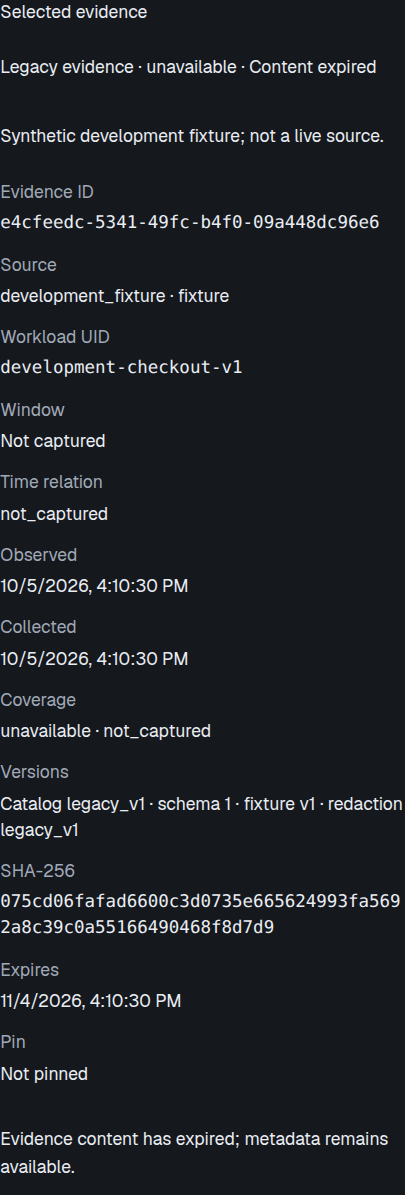
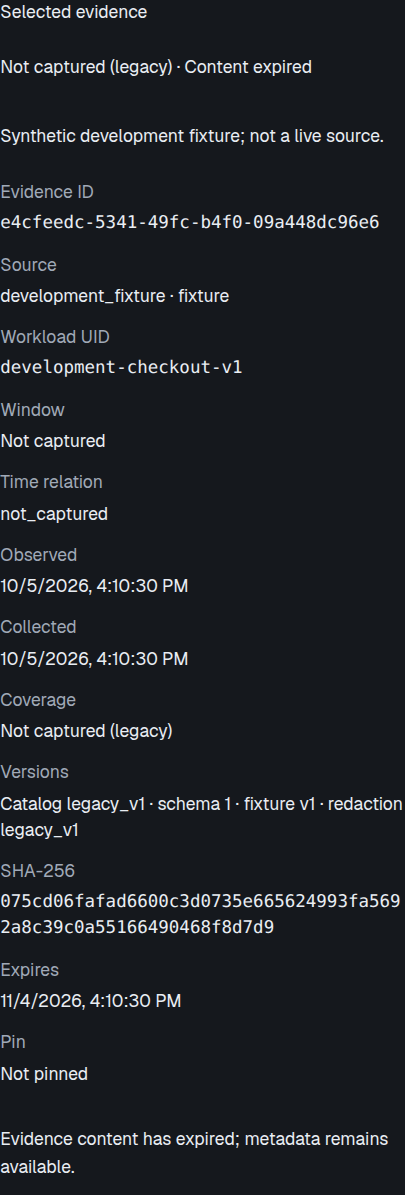
fix(evidence): preserve truthful coverage and version handoffs
Track actual omissions rather than sorting or redaction as truncation. Distinguish uncaptured legacy coverage from current content availability. Produce HandoffSnapshot/v2 while reading frozen v1/v2 envelopes without relabeling or rerendering their saved bytes.

Refs: #45

Changed region(s): [[0.0, 0.031, 0.9481, 0.0619], [0.0, 0.5883, 0.5333, 0.6192]]

diff --git a/apps/web/src/features/investigations/InvestigationWorkspace.test.tsx b/apps/web/src/features/investigations/InvestigationWorkspace.test.tsx
@@ -102,7 +102,7 @@ function mount(
     if (path.endsWith("/runs")) return Response.json({ items: runs, next_offset: null });
     if (path.includes("/runs/")) return Response.json(runs.find((r) => path.endsWith(r.id)));
     if (path.endsWith("/activity")) return Response.json({ items: [], total: 0, next_cursor: null });
-    if (path.endsWith("/handoff/preview")) return Response.json({ incident_id: incidentId, resolution_id: null, schema_version: "HandoffSnapshot/v1", snapshot: {}, markdown: "Current handoff" });
+    if (path.endsWith("/handoff/preview")) return Response.json({ incident_id: incidentId, resolution_id: null, schema_version: "HandoffSnapshot/v2", snapshot: {}, markdown: "Current handoff" });
     if (path.endsWith("/plans") || path.endsWith("/executions")) return Response.json([]);
     return Response.json({
       id: incidentId,
@@ -239,7 +239,7 @@ describe("persisted handoff navigation", () => {
   const resolution = "00000000-0000-4000-8000-000000000099";
   const human = "<img src=x onerror=alert(1)> Ghi chú & evidence";
   const previewResponse = (selected: string | null) => Response.json({
-    incident_id: incidentId, resolution_id: selected, schema_version: "HandoffSnapshot/v1",
+    incident_id: incidentId, resolution_id: selected, schema_version: selected ? "HandoffSnapshot/v1" : "HandoffSnapshot/v2",
     snapshot: {}, markdown: selected ? `Saved: ${human}` : "Current handoff",
   });
 
@@ -344,7 +344,7 @@ describe("persisted handoff navigation", () => {
       }
       if (url.pathname === `/api/incidents/${incidentId}`) return Response.json(detail());
       if (url.pathname.endsWith("/handoff/preview")) return Response.json({
-        incident_id: incidentId, resolution_id: null, schema_version: "HandoffSnapshot/v1",
+        incident_id: incidentId, resolution_id: null, schema_version: "HandoffSnapshot/v2",
         snapshot: {}, markdown: resolved ? "State: resolved; reason: service recovered" : "State: open",
       });
     });

diff --git a/apps/web/src/app/SessionBoundary.test.tsx b/apps/web/src/app/SessionBoundary.test.tsx
@@ -203,7 +203,7 @@ it("returns to the selected saved incident/run with fresh reads after reauthenti
   const fixture = (r: RequestInfo | URL) => {
     const url = path(r);
     if (url.endsWith("/activity")) return { items: [], total: 0, next_cursor: null };
-    if (url.endsWith("/handoff/preview")) return { incident_id: id, resolution_id: null, schema_version: "HandoffSnapshot/v1", snapshot: {}, markdown: "Current handoff" };
+    if (url.endsWith("/handoff/preview")) return { incident_id: id, resolution_id: null, schema_version: "HandoffSnapshot/v2", snapshot: {}, markdown: "Current handoff" };
     if (url.endsWith("/plans") || url.endsWith("/executions")) return [];
     if (url === "/api/session" || url === "/api/login") return a;
     if (url.endsWith(`/runs/${run}`))
@@ -290,7 +290,7 @@ it("discards an expired approval intent and requires a fresh plan read and expli
       });
     if (url.endsWith("/plans")) return Response.json([plan]);
     if (url.endsWith("/activity")) return Response.json({ items: [], total: 0, next_cursor: null });
-    if (url.endsWith("/handoff/preview")) return Response.json({ incident_id: id, resolution_id: null, schema_version: "HandoffSnapshot/v1", snapshot: {}, markdown: "Current handoff" });
+    if (url.endsWith("/handoff/preview")) return Response.json({ incident_id: id, resolution_id: null, schema_version: "HandoffSnapshot/v2", snapshot: {}, markdown: "Current handoff" });
     if (url.endsWith("/executions")) return Response.json([]);
     if (url.endsWith("/runs"))
       return Response.json({ items: [], next_offset: null });

diff --git a/apps/web/src/features/investigations/EvidenceCatalog.tsx b/apps/web/src/features/investigations/EvidenceCatalog.tsx
@@ -8,6 +8,12 @@ import { Failure, Loading } from "@/app/Feedback";
 type Run = components["schemas"]["RunView"];
 type Evidence = components["schemas"]["EvidenceView"];
 
+function coverageLabel(evidence: Evidence) {
+  return evidence.schema_version === 1
+    ? "Not captured (legacy)"
+    : evidence.coverage.status;
+}
+
 function EvidenceDetail({
   incidentId,
   runId,
@@ -63,8 +69,7 @@ function EvidenceDetail({
   return (
     <>
       <p>
-        {e.schema_version === 1 ? "Legacy evidence · " : ""}
-        {e.coverage.status} · Content{" "}
+        {coverageLabel(e)} · Content{" "}
         {contentError?.status === 410
           ? "expired"
           : contentError?.status === 409
@@ -101,8 +106,8 @@ function EvidenceDetail({
         <dd>{new Date(e.collected_at).toLocaleString()}</dd>
         <dt>Coverage</dt>
         <dd>
-          {e.coverage.status}
-          {e.coverage.reason_codes.length
+          {coverageLabel(e)}
+          {e.schema_version !== 1 && e.coverage.reason_codes.length
             ? ` · ${e.coverage.reason_codes.join(", ")}`
             : ""}
         </dd>
@@ -230,8 +235,7 @@ export function EvidenceCatalog({
               >
                 {e.source_key}
               </a>{" "}
-              · {e.coverage.status} · content {e.content_status}
-              {e.schema_version === 1 && " · legacy"}
+              · {coverageLabel(e)} · content {e.content_status}
             </li>
           ))}
         </ul>

diff --git a/apps/web/src/features/investigations/EvidenceCatalog.test.tsx b/apps/web/src/features/investigations/EvidenceCatalog.test.tsx
@@ -116,7 +116,14 @@ it("identifies historical evidence with uncaptured source coverage as legacy", a
     return Response.json(evidence);
   });
   mount(evidenceId);
-  expect(await screen.findByText(/Legacy evidence/)).toBeTruthy();
+  await screen.findByText("Stored content");
+  expect(screen.getByText("Coverage").nextElementSibling?.textContent).toBe(
+    "Not captured (legacy)",
+  );
+  expect(
+    screen.getByRole("link", { name: "development_fixture" }).parentElement
+      ?.textContent,
+  ).not.toContain("unavailable");
   expect(document.activeElement).toBe(
     screen.getByRole("heading", { name: "Selected evidence" }),
   );

diff --git a/services/backend/src/cloudops/features/investigations/storage.py b/services/backend/src/cloudops/features/investigations/storage.py
@@ -299,6 +299,8 @@ def _clean(value, key="", depth=0, budget=None, fields=None, pod=""):
             fields = QUERY_IDENTITY_FIELDS
         elif fields is QUERY_FIELDS and key == "window":
             fields = QUERY_WINDOW_FIELDS
+        if any(field not in fields for field in value):
+            budget["truncated"] = True
         for field, item in value.items():
             if field not in fields:
                 continue
@@ -355,6 +357,7 @@ def _clean(value, key="", depth=0, budget=None, fields=None, pod=""):
         if pod:
             seen = budget["pods_seen"]
             if pod not in seen and len(seen) >= 10:
+                budget["truncated"] = True
                 return {}
             seen.add(pod)
         container = value.get("container", value.get("name") if key == "containers" else None)
@@ -364,6 +367,7 @@ def _clean(value, key="", depth=0, budget=None, fields=None, pod=""):
             identity = (pod, container)
             seen = budget["containers_seen"]
             if identity not in seen and len(seen) >= 20:
+                budget["truncated"] = True
                 return {}
             seen.add(identity)
         return {
@@ -382,6 +386,8 @@ def _clean(value, key="", depth=0, budget=None, fields=None, pod=""):
             values = valid
             count = min(len(values), budget["samples"])
             budget["samples"] -= count
+            if count < len(values):
+                budget["truncated"] = True
             # A sample is a single timestamp/value pair, never an arbitrary nested object.
             return [_clean(v, "", depth + 1, budget, fields, pod) for v in values[:count]]
         if key == "series" and not values:
@@ -389,13 +395,20 @@ def _clean(value, key="", depth=0, budget=None, fields=None, pod=""):
         if key == "series":
             count = min(len(values), budget["series"])
             budget["series"] -= count
+            if count < len(values):
+                budget["truncated"] = True
             values = values[:count]
         elif key in {"pods", "containers"}:
             # Each record registers its identity while traversing the dictionary.
             values = [v for v in values if isinstance(v, dict)]
         else:
-            values = values[: LIMITS.get(key, 1000)]
+            limit = LIMITS.get(key, 1000)
+            if len(values) > limit:
+                budget["truncated"] = True
+            values = values[:limit]
         items = [_clean(v, key, depth + 1, budget, fields, pod) for v in values]
+        if key in {"pods", "containers", "logs"} and any(item == {} for item in items):
+            budget["truncated"] = True
         return (
             [item for item in items if item != {}]
             if key in {"pods", "containers", "logs"}
@@ -404,7 +417,10 @@ def _clean(value, key="", depth=0, budget=None, fields=None, pod=""):
     if isinstance(value, str):
         if fields is CONFIG_FIELDS and not re.fullmatch(r"[A-Za-z0-9_.:/-]{1,253}", value):
             raise ValueError("ConfigMap metadata contains an invalid identifier.")
-        return _redact(value)[:32768]
+        redacted = _redact(value)
+        if len(redacted) > 32768:
+            budget["truncated"] = True
+        return redacted[:32768]
     if value is None or isinstance(value, (bool, int)):
         return value
     if isinstance(value, float) and math.isfinite(value):
@@ -446,11 +462,13 @@ def _count_samples(value):
 
 
 def _bounded(payload, kind, byte_limit, budget, source_key):
-    original = payload
+    budget["truncated"] = False
     if kind == "fixture":
         payload = FixturePayload.model_validate(payload).model_dump()
         fields = ROOT_FIELDS["fixture"]
     else:
+        if any(key not in ROOT_FIELDS[kind] for key in payload):
+            budget["truncated"] = True
         payload = {key: value for key, value in payload.items() if key in ROOT_FIELDS[kind]}
         fields = (
             CONFIG_FIELDS
@@ -463,9 +481,12 @@ def _bounded(payload, kind, byte_limit, budget, source_key):
             }[kind]
         )
     cleaned = _clean(payload, budget=budget, fields=fields)
+    truncated = budget["truncated"]
     if kind == "logs":
-        cleaned = _bound_log_segments(cleaned, {})
-    truncated = cleaned != original
+        bounded_logs = _bound_log_segments(cleaned, {})
+        # This phase only trims text/line budgets, unlike sorting or redaction above.
+        truncated = truncated or bounded_logs != cleaned
+        cleaned = bounded_logs
     # Remove list entries deterministically until the fixed allocation is satisfied.
     while len(_canonical(cleaned)) > byte_limit:
         lists = []

diff --git a/services/backend/tests/test_incident_handoff.py b/services/backend/tests/test_incident_handoff.py
@@ -131,11 +131,15 @@ def test_saved_and_legacy_bytes_survive_reopen_later_records_and_renderer_change
     )
 
 
-def test_current_handoff_discloses_retirement_without_changing_saved_v2(client):
+@pytest.mark.parametrize("schema_version", ["HandoffSnapshot/v1", "HandoffSnapshot/v2"])
+def test_current_handoff_discloses_retirement_without_changing_saved_snapshot(
+    client, schema_version
+):
     headers = sign_in(client)
     incident_id = create(client, headers, incident_body(client)).json()["incident_id"]
     url = f"/api/incidents/{incident_id}/handoff"
     before = client.get(url + "/preview").json()
+    assert before["schema_version"] == "HandoffSnapshot/v2"
     assert before["snapshot"]["workload"]["active"] is True
     assert "Workload status: Active" in before["markdown"]
     old_markdown = "# Incident handoff\n\nPrior v2 saved bytes\n"
@@ -149,7 +153,7 @@ def test_current_handoff_discloses_retirement_without_changing_saved_v2(client):
             text="Prior resolution",
             actor_id=incident.created_by,
             snapshot={
-                "schema_version": handoff.SCHEMA_VERSION,
+                "schema_version": schema_version,
                 "snapshot": before["snapshot"],
                 "markdown": old_markdown,
             },
@@ -180,7 +184,10 @@ def test_current_handoff_discloses_retirement_without_changing_saved_v2(client):
     assert client.get(url).content == current["markdown"].encode()
     params = {"resolution_id": str(resolution_id)}
     assert client.get(url, params=params).content == old_markdown.encode()
-    assert client.get(url + "/preview", params=params).json()["markdown"] == old_markdown
+    saved_preview = client.get(url + "/preview", params=params).json()
+    assert saved_preview["schema_version"] == schema_version
+    assert saved_preview["markdown"] == old_markdown
+    assert saved_preview["snapshot"] == before["snapshot"]
     with sessions()() as db:
         assert db.get(Incident, UUID(incident_id)).workload_id == old_id
         assert db.get(Workload, replacement_id).active is True
@@ -538,6 +545,8 @@ def test_full_history_evidence_references_and_cross_incident_lock(client):
     assert plans[lock_plan_id]["incident_id"] == other_id
     assert data["target_locks"]["items"][0]["plan_id"] == lock_plan_id
     markdown = client.get(url).json()["markdown"]
+    assert markdown.count("Coverage: Not captured (legacy)") == 30
+    assert "Coverage: available" not in markdown
     assert lock_id in markdown and lock_plan_id in markdown and other_id in markdown
     assert "Historical unknown" in markdown
     assert data["actions"]["execution_count"] == 31

diff --git a/services/backend/tests/test_evidence_redaction.py b/services/backend/tests/test_evidence_redaction.py
@@ -45,6 +45,53 @@ def test_storage_redacts_before_hash_and_caps_state(client):
         assert row.coverage["status"] == "partial"
 
 
+@pytest.mark.parametrize(
+    ("source_key", "payload"),
+    [
+        ("kubernetes.state", {"pods": [{"uid": "b"}, {"uid": "a"}]}),
+        (
+            "kubernetes.events",
+            {
+                "events": [
+                    {"uid": "z", "timestamp": "2026-11-01T00:00:00Z", "message": "First"},
+                    {"uid": "a", "timestamp": "2026-11-01T00:01:00Z", "message": "Second"},
+                ]
+            },
+        ),
+        (
+            "kubernetes.logs.current",
+            {
+                "logs": [
+                    {
+                        "pod_uid": "a",
+                        "container": "app",
+                        "text": "Authorization: Bearer synthetic-private-value\nNormal output",
+                    }
+                ]
+            },
+        ),
+        (
+            "prometheus.request_rate",
+            {
+                "series": [
+                    {"name": "b", "samples": [[0, 1]]},
+                    {"name": "a", "samples": [[0, 2]]},
+                ]
+            },
+        ),
+    ],
+)
+def test_ordering_and_redaction_preserve_complete_source_coverage(client, source_key, payload):
+    _, run_id, uid = setup_run(client)
+    results = batch(datetime.now(timezone.utc))
+    _set_result(results, source_key, payload)
+    with sessions()() as db:
+        rows = store_batch(db, run_id, uid, results)
+        row = next(row for row in rows if row.source_key == source_key)
+        assert row.coverage == {"status": "available", "reason_codes": []}
+        assert "synthetic-private-value" not in json.dumps(row.payload)
+
+
 def _set_result(results, key, payload):
     index = next(i for i, result in enumerate(results) if result.source_key == key)
     results[index] = results[index].model_copy(

diff --git a/services/backend/src/cloudops/features/incidents/handoff.py b/services/backend/src/cloudops/features/incidents/handoff.py
@@ -26,7 +26,7 @@ from cloudops.features.workloads.models import Workload
 from cloudops.shared.errors import DomainError
 from cloudops.shared.jobs import Job
 
-SCHEMA_VERSION = "HandoffSnapshot/v1"
+SCHEMA_VERSION = "HandoffSnapshot/v2"
 LEGACY_VERSION = "legacy"
 
 
@@ -398,6 +398,11 @@ def _render_v3(snapshot):
         sections.append("No Evidence references recorded.\n\n")
     for evidence in snapshot["evidence"]["items"]:
         window = evidence["requested_window"]
+        coverage = (
+            "Not captured (legacy)"
+            if evidence["schema_version"] == 1
+            else evidence["coverage"]["status"]
+        )
         sections.extend(
             [
                 f"- Evidence {_inline(evidence['id'])}; Run {_inline(evidence['run_id'])}; "
@@ -405,7 +410,7 @@ def _render_v3(snapshot):
                 f"catalog {_inline(evidence['catalog_version'])}; record v{_inline(evidence['schema_version'])}; "
                 f"payload {_inline(evidence['payload_kind'])} v{_inline(evidence['payload_version'])}; "
                 f"workload UID {_inline(evidence['workload_uid'])}\n",
-                f"  Coverage: {_inline(evidence['coverage']['status'])}; "
+                f"  Coverage: {_inline(coverage)}; "
                 f"reasons: {_inline(', '.join(evidence['coverage']['reason_codes']) or 'None')}; "
                 f"content: {_inline(evidence['content_status'])}; pinned: {_inline(str(evidence['pinned']))}\n",
                 f"  Observed: {_inline(evidence['observed_at'])}; collected: {_inline(evidence['collected_at'])}; "

diff --git a/services/backend/src/cloudops/features/incidents/lifecycle.py b/services/backend/src/cloudops/features/incidents/lifecycle.py
@@ -126,7 +126,7 @@ def _preview(db, incident_id, resolution_id):
             markdown=composer.legacy_markdown(stored),
         )
     if (
-        stored.get("schema_version") != composer.SCHEMA_VERSION
+        stored.get("schema_version") not in ("HandoffSnapshot/v1", composer.SCHEMA_VERSION)
         or not isinstance(stored.get("snapshot"), dict)
         or not isinstance(stored.get("markdown"), str)
     ):
@@ -136,7 +136,7 @@ def _preview(db, incident_id, resolution_id):
     return HandoffPreview(
         incident_id=incident_id,
         resolution_id=resolution_id,
-        schema_version=composer.SCHEMA_VERSION,
+        schema_version=stored["schema_version"],
         snapshot=stored["snapshot"],
         markdown=stored["markdown"],
     )

diff --git a/services/backend/tests/test_incident_requests.py b/services/backend/tests/test_incident_requests.py
@@ -462,7 +462,6 @@ def test_resolve_cancels_queued_and_reclaim_after_resolve_never_retries(client):
         f"/api/incidents/{queued['incident_id']}/handoff/preview",
         params={"resolution_id": resolution["id"]},
     ).json()
-    assert saved["schema_version"] == "HandoffSnapshot/v1"
     saved_run = next(
         item for item in saved["snapshot"]["runs"]["items"] if item["id"] == queued["run_id"]
     )

diff --git a/docs/foundation.md b/docs/foundation.md
@@ -38,7 +38,7 @@ The images document local behavior. They do not prove live source collection, mo
 The persisted incident workspace has a **Current handoff** and explicit **View saved resolution** selections in activity history. The preview is a readable, literal Markdown document; HTML and human-authored text are not executed. Copy and download use the exact loaded server Markdown, not a second client formatter. Successful notes and lifecycle transitions refresh the current preview automatically; explicit refresh includes other later changes. Saved selections never silently fall back to another resolution or Run and are not invalidated by those current-preview refreshes.
 
 - `GET /api/incidents/{incident_id}/handoff/preview` returns the selected content, schema version and Markdown. The existing `/handoff` download returns the same Markdown bytes when the stored inputs are unchanged. Both roles may preview/copy/export; lifecycle and note writes remain Operator-only.
-- Resolve freezes `HandoffSnapshot/v1` content and Markdown with the reason, actor and timestamp in the same transaction as lifecycle invalidation and queued cancellation. Reopen, later notes/Runs and renderer upgrades do not regenerate saved Markdown. Existing unversioned JSON-fence exports retain their original renderer and bytes. Unknown versions fail explicitly.
+- Resolve freezes `HandoffSnapshot/v2` source-metadata content and Markdown with the reason, actor and timestamp in the same transaction as lifecycle invalidation and queued cancellation. Saved `HandoffSnapshot/v1` envelopes retain their original version, content and Markdown; current previews and new saves use v2. Reopen, later notes/Runs and renderer upgrades do not regenerate saved Markdown. Existing unversioned JSON-fence exports retain their original renderer and bytes. Unknown versions fail explicitly. Legacy evidence coverage is displayed as **Not captured (legacy)**, independently of whether its original content remains available or has expired.
 - Identity, Runs, evidence references, action outcomes, checks, questions, notes and completeness/counts come from stored records. Creator/requester/plan-decision attribution includes usernames where recorded, with IDs retained. Missing impact, findings and citations are explicitly unavailable or unrecorded. Labeled findings fixtures validate stored Run/evidence references and derive citation pairs; they are composer contracts, not a live diagnosis producer.
 - E07 owns execution eligibility. Terminal unknown needs matching terminal job/result proof; transient unknown, active, unsupported or ambiguous states fail closed. Eligible handoff still shows the unknown outcome, cross-incident plan attribution and retained target lock. Lifecycle changes do not grant writer authority or unlock a target.
 - Activity is keyset-paginated, newest first, with actor/time and an explicit total. List items contain metadata and text, never embedded saved reports; read one selected report through the preview/export endpoints. Queries defer saved snapshots and evidence payloads so report composition does not load nested prior reports or unused payloads. A full report remains proportional to its disclosed stored records rather than silently truncating history, referenced records or held/uncertain locks. **Load older activity** keeps resolutions beyond the former 100-row boundary reachable.
@@ -63,6 +63,8 @@ Each new completed batch stores all catalog outcomes and coverage for CrashLoop/
 The non-checkpointed runner uses the existing fenced `development_collection_v1` job and its locked attempt/max-attempts snapshot, not a separate retry budget. Reads run sequentially, below the four-read maximum, with a five-second adapter deadline and a 90-second collection deadline per attempt. Adapters must bound their actual underlying read; no timed-out background read is left running. Transient failures retry the uncommitted batch within the existing at-most-three attempts; the final attempt publishes unavailable source outcomes instead of inventing success. Durable per-source checkpoints, recovered-job permits and live providers remain their owning E04 child work.
 
 New records are immutable per `(run_id, source_key, catalog_version)`. Identical publication preserves IDs; conflicting content/provenance is rejected. Storage independently whitelists, redacts credential-shaped strings, deterministically truncates and hashes the stored canonical JSON. ConfigMap evidence permits identifiers/references only, never full contents; arbitrary raw Kubernetes objects and Secret objects are not accepted. Redaction is not a general detector for every possible sensitive value. Historical v1 payloads/hashes are not rewritten by the new policy.
+
+Canonical ordering and credential redaction do not reduce coverage by themselves. `truncated` means fields, items or text were actually omitted by an allowlist or storage bound; missing/invalid metric samples retain explicit `no_samples` semantics.
 
 | Stored content allocation | Bound |
 | --- | --- |
